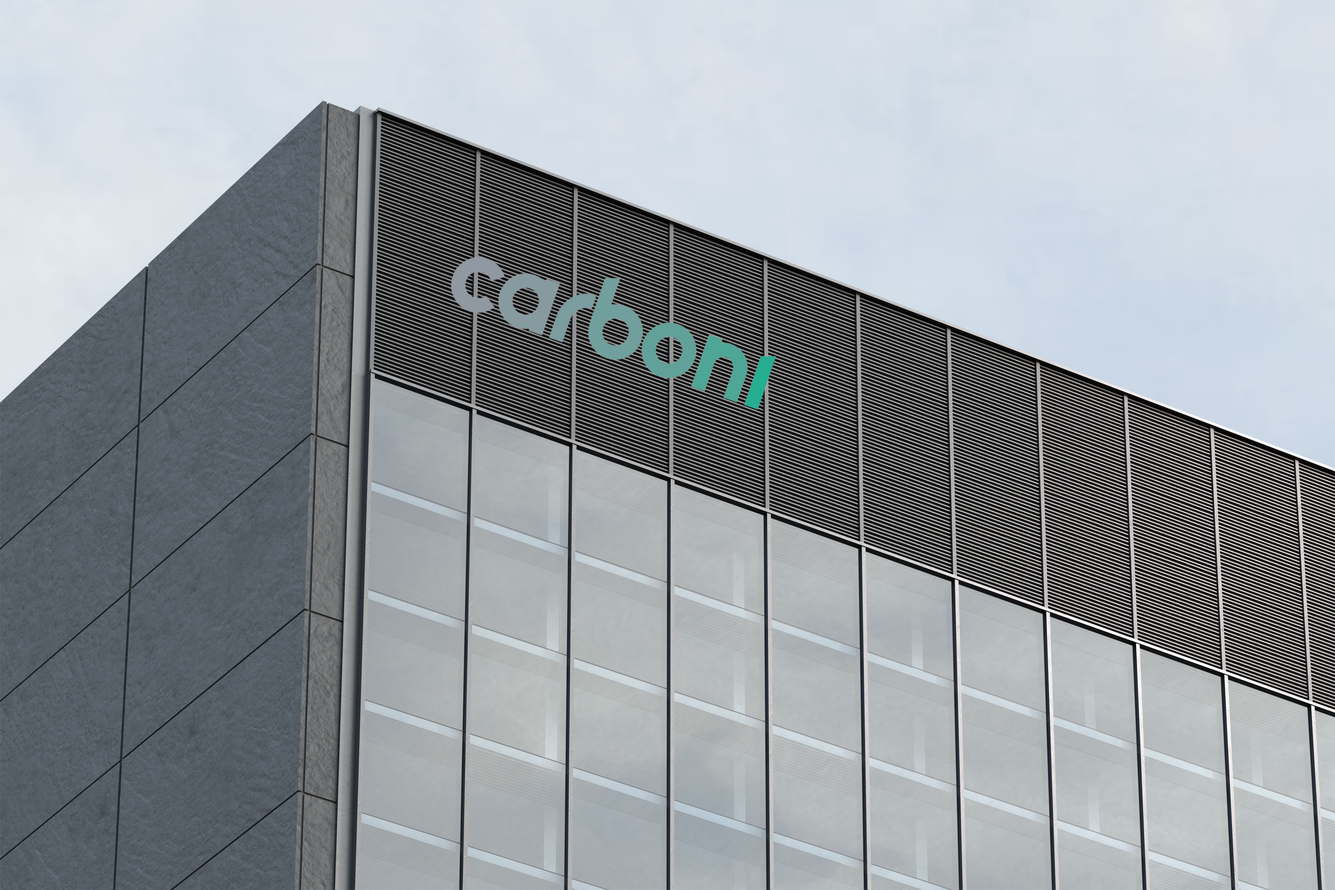
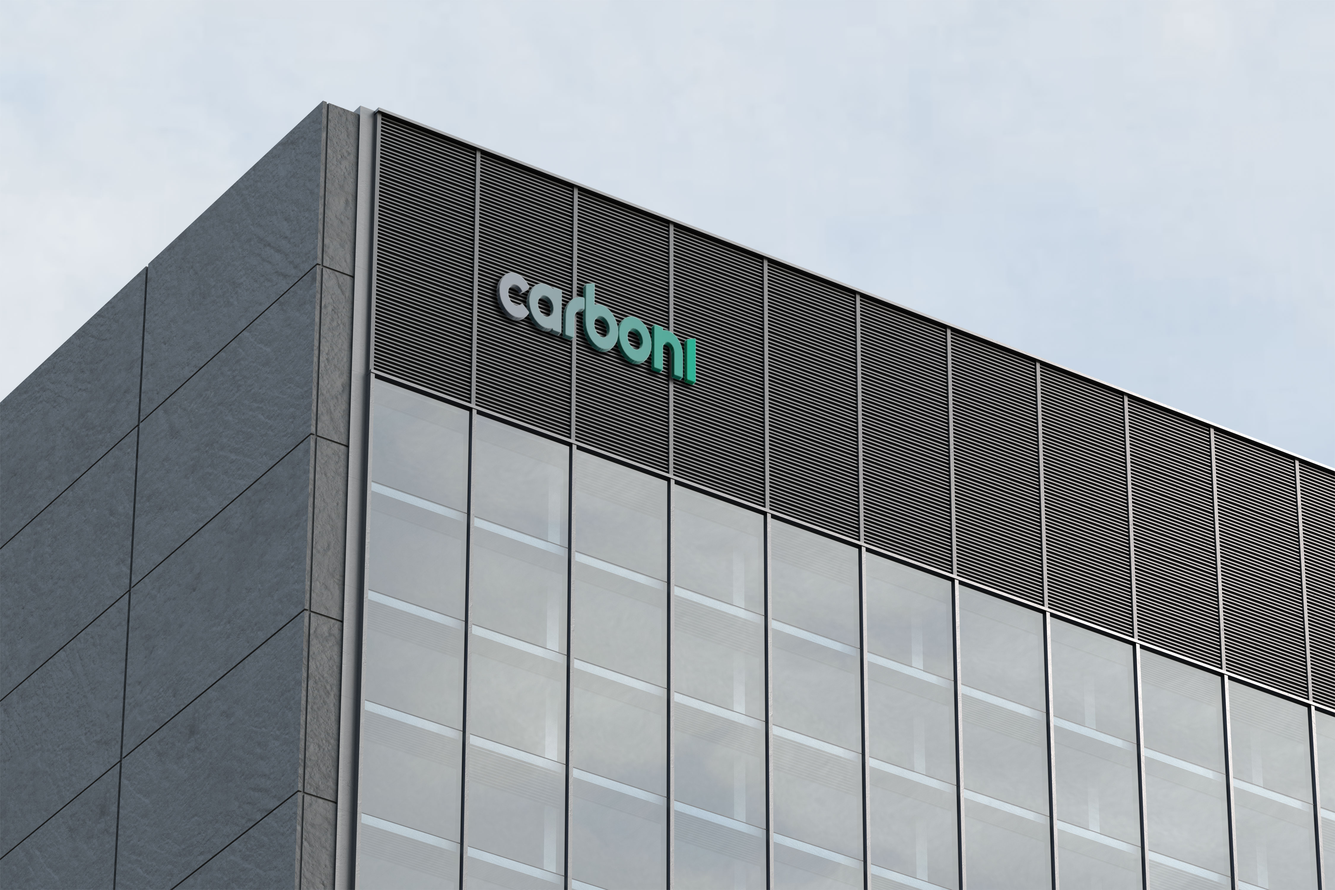
메인 수정(폰트 고민)

Changed region(s): [[0.3422, 0.279, 0.5911, 0.465]]

diff --git a/Carboni-mes/src/main/resources/templates/layouts/layout.html b/Carboni-mes/src/main/resources/templates/layouts/layout.html
@@ -67,7 +67,12 @@
 <link
 	href="https://cdn.jsdelivr.net/npm/simple-datatables@latest/dist/style.css"
 	rel="stylesheet" />
-
+<style>
+/* @import url('https://cdn.jsdelivr.net/gh/orioncactus/pretendard/dist/web/static/pretendard.css');
+* { 
+font-family: Pretendard, -apple-system, BlinkMacSystemFont, system-ui, Roboto, 'Helvetica Neue', 'Segoe UI', 'Apple SD Gothic Neo', 'Noto Sans KR', 'Malgun Gothic', sans-serif;
+} */
+</style>
 <title>Carboni</title>
 </head>
 <body class="sb-nav-fixed">

diff --git a/Carboni-mes/src/main/resources/templates/home/home.html b/Carboni-mes/src/main/resources/templates/home/home.html
@@ -5,7 +5,7 @@
 <style>
 	#maincarb{
 		width: 100%;
-		height: 100%;
+		height: 100%; 
 		position: absolute; top:0; left:0;
 	}
 /*	#title{
